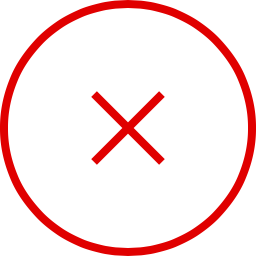
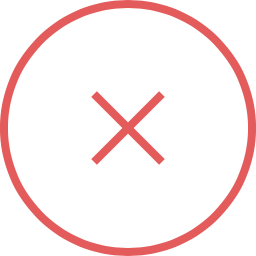
nn

Changed region(s): [[0.0, 0.0, 1.0, 1.0], [0.3438, 0.3438, 0.6562, 0.6562]]

diff --git a/Chess♔/SettingsPage.swift b/Chess♔/SettingsPage.swift
@@ -26,6 +26,20 @@ class SettingsPage: UIViewController, UIScrollViewDelegate {
     let everyoneSwitch = UISwitch()
     let darkModeSwitch = UISwitch()
     
+    
+    var label = UILabel()
+    var bc1 = UILabel()
+    var bc2 = UILabel()
+    
+    
+    
+    var label1 = UILabel()
+    var friendsOnlyText = UILabel()
+    var label3 = UILabel()
+    var label2 = UILabel()
+    var comment1 = UILabel()
+    var comment2 = UILabel()
+    
     override func viewDidLoad() {
         super.viewDidLoad()
         
@@ -91,13 +105,13 @@ self.title = "Settings"
         //        contentView.clipsToBounds = true
         //        scrollView.addSubview(contentView)
         
-        let label = UILabel(frame: CGRectMake(0, 45, screenWidth, 45*2))
+        label = UILabel(frame: CGRectMake(0, 45, screenWidth, 45*2))
         label.text = ""
         label.backgroundColor = UIColor.whiteColor()
         scrollView.addSubview(label)
         
         //adding Receive notifications: label
-        let label1 = UILabel(frame: CGRectMake(20, 45, screenWidth, 45))
+        label1 = UILabel(frame: CGRectMake(20, 45, screenWidth, 45))
         label1.textAlignment = NSTextAlignment.Left
         label1.text = "Receive notifications"
         label1.font = UIFont(name: "Didot", size: 16)
@@ -106,7 +120,7 @@ self.title = "Settings"
         scrollView.addSubview(label1)
         
         //adding freindsonly button: label
-        let friendsOnlyText = UILabel(frame: CGRectMake(20, 45 + 45, screenWidth, 45))
+        friendsOnlyText = UILabel(frame: CGRectMake(20, 45 + 45, screenWidth, 45))
         friendsOnlyText.textAlignment = NSTextAlignment.Left
         friendsOnlyText.text = "Game Request From Everyone"
         friendsOnlyText.font = UIFont(name: "Didot", size: 16)
@@ -114,14 +128,14 @@ self.title = "Settings"
         else { friendsOnlyText.textColor = UIColor.blackColor() }
         scrollView.addSubview(friendsOnlyText)
 
-        let bc1 = UILabel(frame: CGRectMake(0, label.frame.origin.y + label.frame.size.height + 45, screenWidth, 45*2))
+        bc1 = UILabel(frame: CGRectMake(0, label.frame.origin.y + label.frame.size.height + 45, screenWidth, 45*2))
         bc1.text = ""
         bc1.backgroundColor = UIColor.whiteColor()
         bc1.userInteractionEnabled = true
         scrollView.addSubview(bc1)
         
         //adding Submit button: label
-        let label3 = UILabel(frame: CGRectMake(20, 45, screenWidth, 45))
+        label3 = UILabel(frame: CGRectMake(20, 45, screenWidth, 45))
         label3.textAlignment = NSTextAlignment.Left
         label3.text = "Submit button"
         label3.font = UIFont(name: "Didot", size: 16)
@@ -132,7 +146,7 @@ self.title = "Settings"
 
         
         //adding Dark mode: label
-        let label2 = UILabel(frame: CGRectMake(20, 0, screenWidth, 45))
+        label2 = UILabel(frame: CGRectMake(20, 0, screenWidth, 45))
         label2.textAlignment = NSTextAlignment.Left
         label2.text = "Dark mode"
         label2.font = UIFont(name: "Didot", size: 16)
@@ -144,7 +158,7 @@ self.title = "Settings"
         
 
         
-        let bc2 = UILabel(frame: CGRectMake(0, bc1.frame.origin.y + bc1.frame.size.height + 60, screenWidth, 45))
+        bc2 = UILabel(frame: CGRectMake(0, bc1.frame.origin.y + bc1.frame.size.height + 60, screenWidth, 45))
         bc2.text = ""
         bc2.backgroundColor = UIColor.whiteColor()
         scrollView.addSubview(bc2)
@@ -152,7 +166,7 @@ self.title = "Settings"
         //logOutButton
         logOutButton.setTitle("Log Out", forState: .Normal)
         logOutButton.titleLabel?.font = UIFont(name: "Didot", size: 16)
-        logOutButton.setTitleColor(UIColor.redColor(), forState: .Normal)
+        logOutButton.setTitleColor(red, forState: .Normal)
         logOutButton.layer.borderColor = blue.CGColor
         //logOutButton.frame.origin.x = 10
         logOutButton.frame.origin.y
@@ -246,7 +260,7 @@ self.title = "Settings"
         scrollView.addSubview(everyoneSwitch)
         
         //adding comment: label
-        let comment1 = UILabel(frame: CGRectMake(10, 20, screenWidth, 25))
+        comment1 = UILabel(frame: CGRectMake(10, 20, screenWidth, 25))
         comment1.textAlignment = NSTextAlignment.Left
         comment1.text = "General"
         comment1.font = UIFont(name: "Didot-Italic", size: 16)
@@ -255,7 +269,7 @@ self.title = "Settings"
         scrollView.addSubview(comment1)
         
         //adding comment: label
-        let comment2 = UILabel(frame: CGRectMake(10, bc1.frame.origin.y - 25, screenWidth, 25))
+        comment2 = UILabel(frame: CGRectMake(10, bc1.frame.origin.y - 25, screenWidth, 25))
         comment2.textAlignment = NSTextAlignment.Left
         comment2.text = "User Interface"
         comment2.font = UIFont(name: "Didot-Italic", size: 16)
@@ -335,26 +349,32 @@ self.title = "Settings"
             
             self.navigationController?.navigationBar.barStyle = UIBarStyle.Black
             self.navigationController?.navigationBar.translucent = false
-            
             self.navigationController?.navigationBar.backgroundColor = UIColor(red: 0.15, green: 0.15 , blue: 0.15, alpha: 1)
             self.navigationController?.navigationBar.barTintColor = UIColor(red: 0.15, green: 0.15 , blue: 0.15, alpha: 1)
             
-            self.view.backgroundColor = UIColor(red: 0.15, green: 0.15 , blue: 0.15, alpha: 1)
+            self.view.backgroundColor = UIColor(red:0.20, green:0.20, blue:0.20, alpha:1.0)
             self.tabBarController?.tabBar.barStyle = UIBarStyle.Black
             self.tabBarController?.tabBar.tintColor = blue
             self.tabBarController?.tabBar.barTintColor = UIColor(red: 0.15, green: 0.15 , blue: 0.15, alpha: 1)
             self.navigationController?.navigationBar.tintColor = blue
-            
-            
             visualEffectView.effect = UIBlurEffect(style: .Dark)
             
-            blue = UIColor(red:0.27, green:0.59, blue:0.94, alpha:1.0)
+            
+            label.backgroundColor = UIColor(red: 0.15, green: 0.15 , blue: 0.15, alpha: 1)
+            bc1.backgroundColor = UIColor(red: 0.15, green: 0.15 , blue: 0.15, alpha: 1)
+            bc2.backgroundColor = UIColor(red: 0.15, green: 0.15 , blue: 0.15, alpha: 1)
+
+
+             label1.textColor = UIColor.whiteColor()
+             friendsOnlyText.textColor = UIColor.whiteColor()
+             label3.textColor = UIColor.whiteColor()
+             label2.textColor = UIColor.whiteColor()
+             comment1.textColor = UIColor.lightTextColor()
+             comment2.textColor = UIColor.lightTextColor()
             
             
+            self.scrollView.backgroundColor = UIColor(red: 0.20, green: 0.20, blue: 0.20, alpha: 1)
             
-            self.scrollView.backgroundColor = UIColor(red: 0.15, green: 0.15 , blue: 0.15, alpha: 1)
-            
-            blue = UIColor(red:0.36, green:0.56, blue:0.79, alpha:1.0)
 
             
             
@@ -369,9 +389,21 @@ self.title = "Settings"
             self.navigationController?.navigationBar.tintColor = blue
             scrollView.backgroundColor = UIColor(red: 0.95, green: 0.95, blue: 0.95, alpha: 1)
             
+            
+            label.backgroundColor = UIColor.whiteColor()
+            bc1.backgroundColor = UIColor.whiteColor()
+            bc2.backgroundColor = UIColor.whiteColor()
+            
+            
+            label1.textColor = UIColor.blackColor()
+            friendsOnlyText.textColor = UIColor.blackColor()
+            label3.textColor = UIColor.blackColor()
+            label2.textColor = UIColor.blackColor()
+            comment1.textColor = UIColor.lightGrayColor()
+            comment2.textColor = UIColor.lightGrayColor()
+            
             self.tabBarController?.tabBar.barTintColor = UIColor.whiteColor()
 
-            blue = UIColor(red:0.36, green:0.56, blue:0.79, alpha:1.0)
             
         }
         

diff --git a/Chess♔/OtherUserProfilePage_Explore.swift b/Chess♔/OtherUserProfilePage_Explore.swift
@@ -746,7 +746,7 @@ class OtherUserProfilePage: UIViewController, UIScrollViewDelegate, UIAlertViewD
         
         unfriendButton = UIButton(frame: CGRectMake(screenWidth + 120, 5, screenWidth - 10, 45))
         unfriendButton.setTitle("Unfriend", forState: .Normal)
-        unfriendButton.setTitleColor(UIColor.redColor(), forState: .Normal)
+        unfriendButton.setTitleColor(red, forState: .Normal)
         unfriendButton.titleLabel?.font = UIFont(name: "Didot", size: 20)
         unfriendButton.backgroundColor = UIColor.whiteColor()
         unfriendButton.layer.cornerRadius = cornerRadius
@@ -1143,13 +1143,19 @@ class OtherUserProfilePage: UIViewController, UIScrollViewDelegate, UIAlertViewD
             
             
             self.navigationController?.navigationBar.barStyle = UIBarStyle.Black
-            self.navigationController?.navigationBar.barTintColor = UIColor.darkGrayColor()
-            self.navigationController?.navigationBar.barTintColor = UIColor(red: 0.05, green: 0.05 , blue: 0.05, alpha: 1)
+            self.navigationController?.navigationBar.translucent = false
+            
+            self.navigationController?.navigationBar.backgroundColor = UIColor(red: 0.15, green: 0.15 , blue: 0.15, alpha: 1)
+            self.navigationController?.navigationBar.barTintColor = UIColor(red: 0.15, green: 0.15 , blue: 0.15, alpha: 1)
             
             self.view.backgroundColor = UIColor(red: 0.15, green: 0.15 , blue: 0.15, alpha: 1)
+            self.scrollView.backgroundColor = UIColor(red: 0.15, green: 0.15 , blue: 0.15, alpha: 1)
             self.tabBarController?.tabBar.barStyle = UIBarStyle.Black
-            self.tabBarController?.tabBar.tintColor = UIColor.whiteColor()
-            self.navigationController?.navigationBar.tintColor = UIColor.whiteColor()
+            self.tabBarController?.tabBar.tintColor = blue
+            self.tabBarController?.tabBar.barTintColor = UIColor(red: 0.15, green: 0.15 , blue: 0.15, alpha: 1)
+            self.navigationController?.navigationBar.tintColor = blue
+            
+            
             
 
             

diff --git a/Chess♔/GameMenu.swift b/Chess♔/GameMenu.swift
@@ -34,6 +34,7 @@ public class Reachability {
 //var blue = UIColor(red:0.17, green:0.33, blue:0.71, alpha:1.0)
 //var blue = UIColor(red:0.27, green:0.59, blue:0.94, alpha:1.0)
 var blue = UIColor(red:0.36, green:0.56, blue:0.79, alpha:1.0)
+var red = UIColor(red:0.89, green:0.36, blue:0.36, alpha:1.0)
 
 
 var gameIDS = []
@@ -1196,21 +1197,18 @@ class GameMenu: UIViewController, UIScrollViewDelegate,UINavigationBarDelegate, 
                 self.tabBarController?.tabBar.tintColor = blue
                 self.tabBarController?.tabBar.barTintColor = UIColor(red: 0.15, green: 0.15 , blue: 0.15, alpha: 1)
                 self.navigationController?.navigationBar.tintColor = blue
-            
+                visualEffectView.effect = UIBlurEffect(style: .Dark)
+
             
             
                     self.newButtonOutlet.tintColor = blue
             
-            
+                
             
 
 
             
                 tableView.backgroundColor = UIColor(red: 0.15, green: 0.15 , blue: 0.15, alpha: 1)
-                visualEffectView.effect = UIBlurEffect(style: .Dark)
-
-                blue = UIColor(red:0.27, green:0.59, blue:0.94, alpha:1.0)
-                blue = UIColor(red:0.36, green:0.56, blue:0.79, alpha:1.0)
 
 
             
@@ -1226,17 +1224,12 @@ class GameMenu: UIViewController, UIScrollViewDelegate,UINavigationBarDelegate, 
                 self.tabBarController?.tabBar.barTintColor = UIColor.whiteColor()
 
                 self.newButtonOutlet.tintColor = blue
-           
 
-  
                 visualEffectView.effect = UIBlurEffect(style: .Light)
             
                 tableView.backgroundColor = UIColor.whiteColor()
 
-                blue = UIColor(red:0.27, green:0.59, blue:0.94, alpha:1.0)
-           // blue = UIColor(red:0.23, green:0.53, blue:0.85, alpha:1.0)
-            // blue = UIColor(red:0.17, green:0.33, blue:0.71, alpha:1.0)
-                blue = UIColor(red:0.36, green:0.56, blue:0.79, alpha:1.0)
+
 
 
 

diff --git a/Chess♔/FriendsMenu.swift b/Chess♔/FriendsMenu.swift
@@ -437,7 +437,7 @@ class FriendsMenu: UIViewController, UISearchBarDelegate, UISearchDisplayDelegat
         
         
         let creatorButton = UIButton(frame: CGRectMake(0,10,screenWidth,50))
-        creatorButton.titleLabel!.font = UIFont(name: "Didot", size: 15)
+        creatorButton.titleLabel!.font = UIFont(name: "Didot", size: 14)
         creatorButton.setTitle("A PANBER SOFTWARE PRODUCTION ©2015", forState: .Normal)
         creatorButton.setTitleColor(UIColor.lightGrayColor(), forState: .Normal)
         creatorButton.setTitleColor(UIColor.lightGrayColor(), forState: .Highlighted)
@@ -469,7 +469,8 @@ class FriendsMenu: UIViewController, UISearchBarDelegate, UISearchDisplayDelegat
         
         let logo = UIImageView(frame: CGRectMake((screenWidth/2) - 75, (screenHeight/2) - 75, 150, 150))
         logo.contentMode = .ScaleAspectFill
-        logo.image = UIImage(named: "PanBerLogo1.png")
+        if darkMode {logo.image = UIImage(named: "PanBerLogo2.png")}
+        else {logo.image = UIImage(named: "PanBerLogo1.png")}
         visualEffectView.addSubview(logo)
         
         UIView.animateWithDuration(0.3, animations: { () -> Void in

diff --git a/Chess♔/OtherUserProfilePage_Profile.swift b/Chess♔/OtherUserProfilePage_Profile.swift
@@ -751,7 +751,7 @@ class OtherUserProfilePage_Profile: UIViewController, UIScrollViewDelegate, UIAl
         
         unfriendButton = UIButton(frame: CGRectMake(screenWidth + 120, 5, screenWidth - 10, 45))
         unfriendButton.setTitle("Unfriend", forState: .Normal)
-        unfriendButton.setTitleColor(UIColor.redColor(), forState: .Normal)
+        unfriendButton.setTitleColor(red, forState: .Normal)
         unfriendButton.titleLabel?.font = UIFont(name: "Didot", size: 20)
         unfriendButton.backgroundColor = UIColor.whiteColor()
         unfriendButton.layer.cornerRadius = cornerRadius
